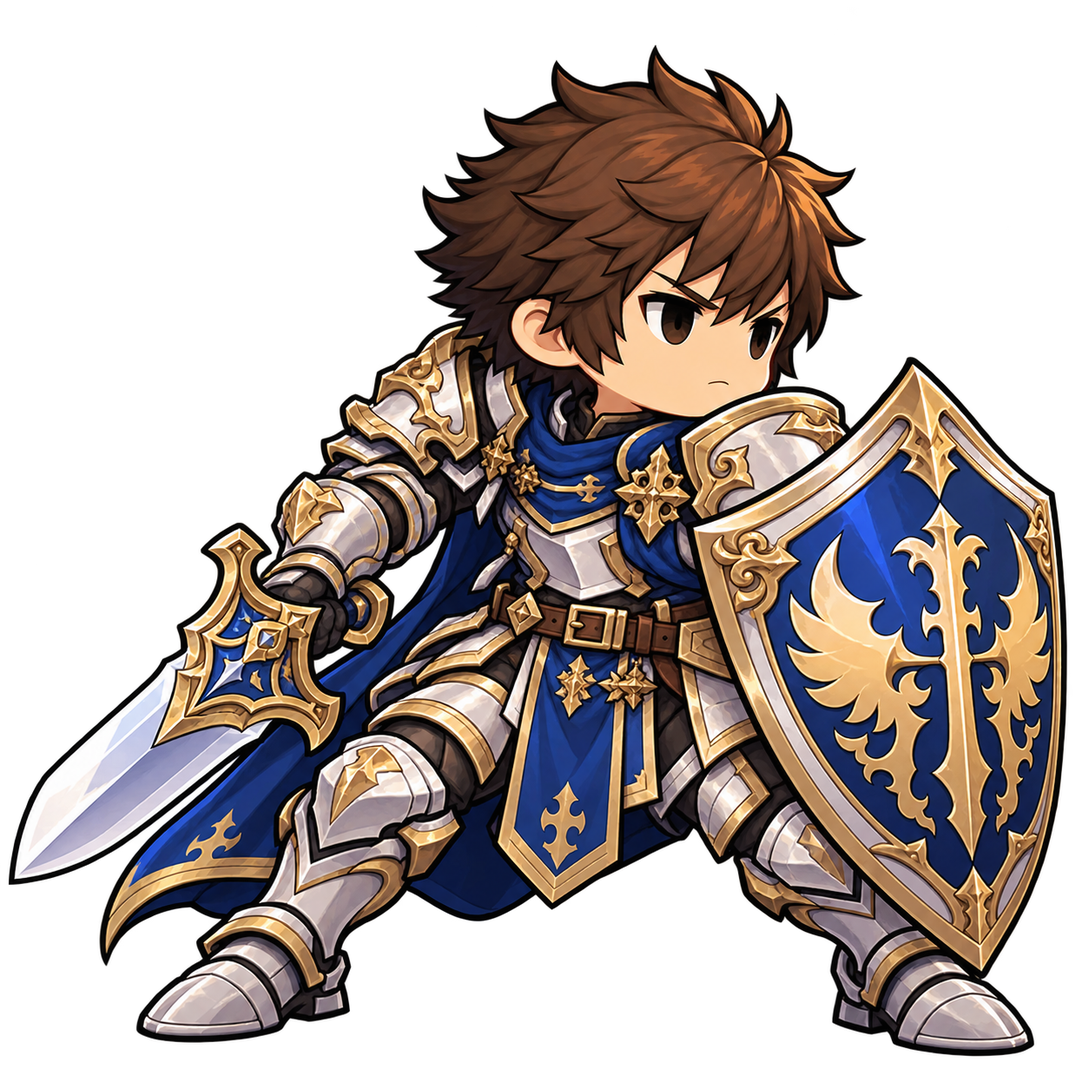
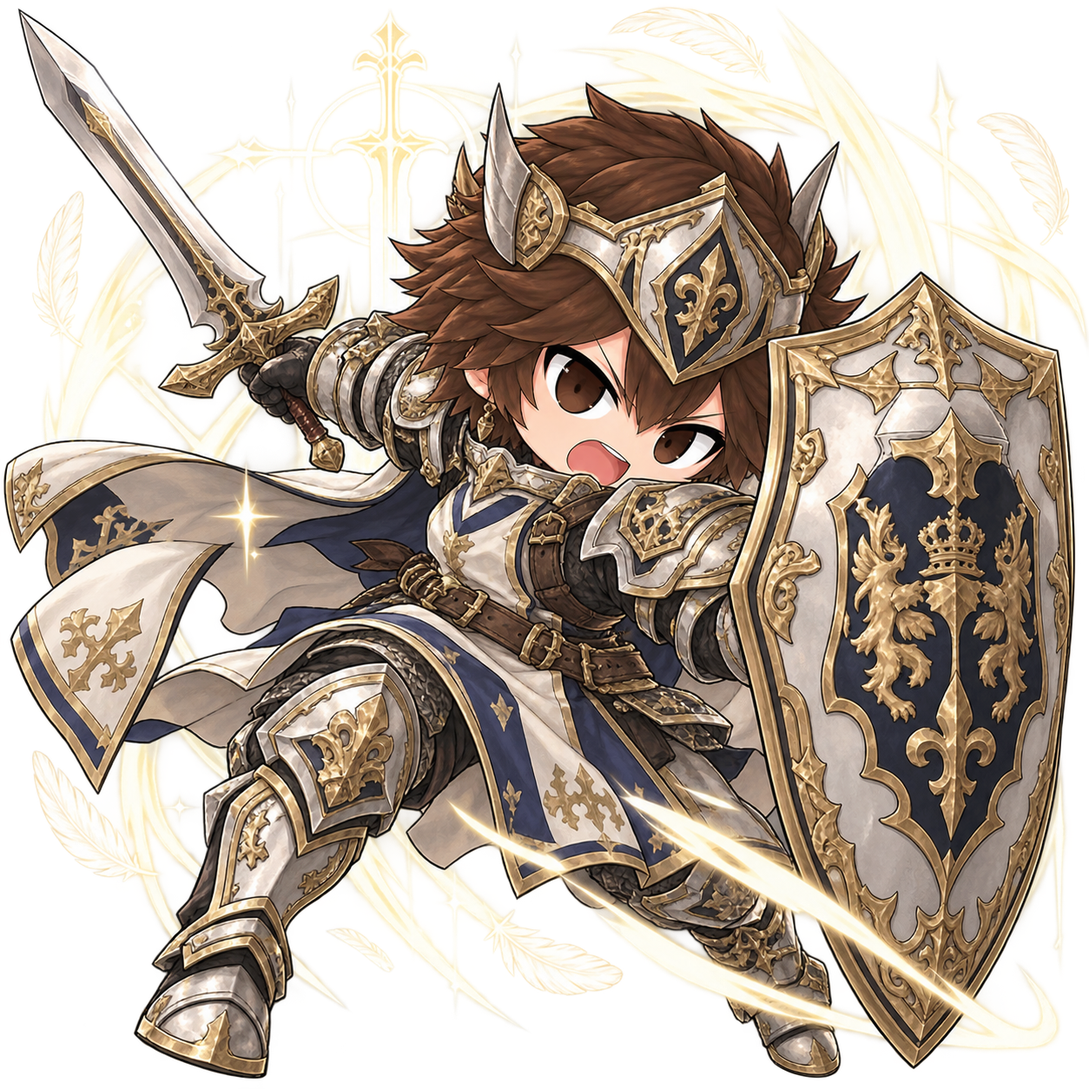
Job art: PLD v2

diff --git a/jobs.html b/jobs.html
@@ -1,4 +1,4 @@
 <!DOCTYPE html><html lang="en"><head><meta charset="utf-8"><meta name="viewport" content="width=device-width,initial-scale=1"><title>Jobs — EmberXI Wiki</title><link rel="stylesheet" href="style.css?v=1789040350"></head><body>
 <div id="side"><div id="logo"><a href="index.html"><div class="logo-title">EMBER XI<br>WIKI</div><div class="logo-sub">A Family Resource for Vana'diel</div></a></div><div class="portal"><h3>Main</h3><ul><li><a href="index.html">Main Page</a></li><li><a href="new-players.html">New Players</a></li><li><a href="rules.html">Server Rules</a></li><li><a href="xp-guide.html">EXP Guide</a></li><li><a href="jobs.html">Jobs</a></li><li><a href="trusts.html">Trusts</a></li><li><a href="avatars.html">Avatars</a></li><li><a href="eco-warrior.html">Eco-Warrior</a></li><li><a href="missions.html">Missions</a></li><li><a href="nms.html">NMs</a></li><li><a href="sky.html">Sky</a></li><li><a href="sea.html">Sea</a></li><li><a href="hnm.html">HNM</a></li></ul></div><div class="portal"><h3>EmberXI Content</h3><ul><li><a href="limit-break.html">Limit Break</a></li><li><a href="fountain.html">The Fountain</a></li><li><a href="ember-trials.html">Ember Trials</a></li><li><a href="ambuscade.html">Ambuscade</a></li><li><a href="nine-teeth.html">Nine Teeth</a></li><li><a href="henge.html">The Henge</a></li><li><a href="forge.html">Brandt & Teodor</a></li><li><a href="shami.html">Shami & Orbs</a></li><li><a href="spark-store.html">Spark Store</a></li></ul></div><div class="portal"><h3>Coming Soon</h3><ul><li><span class="soon">CoP</span></li><li><span class="soon">ToAU</span></li><li><span class="soon">Quests</span></li></ul></div><div class="portal"><h3>Tools</h3><ul><li><a href="https://emberxi.wordpress.com">News Site</a></li></ul></div></div>
 <div id="main"><div id="top"><div class="tabs-l"><a class="on" href="#">Jobs</a><a href="#">Discussion</a></div><div class="tabs-r"><a class="on" href="#">Read</a><a href="#">History</a><form class="search" onsubmit="return false"><input placeholder="Search EmberXI Wiki"></form></div></div>
-<div id="content"><h1 class="firstHeading">Jobs</h1><div class="article"><p>Your <b>Main Job</b> is the job that gains experience. A <b>Support Job</b> (sub) is a second job at half your main level; it gives you its abilities, traits and spells up to that level.</p><p>The "Standard Jobs" below are available to every new character. The "Advanced Jobs" are unlocked by completing a quest after level 30.</p><h2>Standard Jobs</h2><p>There are six standard jobs available to all starting players.</p><div class="jobgrid2"><div class="jobrow"><a href="job-war.html" class="jobpic"><img src="img/job-war.png?v=1789072090" alt="Warrior"></a><div><h3 id="war"><a href="job-war.html">Warrior</a></h3><p>Masters of weapons. Warriors stand in front and protect the party. The easiest first job, and the best support job for melee.</p></div></div><div class="jobrow"><a href="job-mnk.html" class="jobpic"><img src="img/job-mnk.png?v=1789040350" alt="Monk"></a><div><h3 id="mnk"><a href="job-mnk.html">Monk</a></h3><p>Fighters who use their fists. Fast punches, high HP and the best Hand-to-Hand skill. Very good solo from level 1.</p></div></div><div class="jobrow"><a href="job-thf.html" class="jobpic"><img src="img/job-thf.png?v=1789040350" alt="Thief"></a><div><h3 id="thf"><a href="job-thf.html">Thief</a></h3><p>Sneak Attack, Trick Attack and Treasure Hunter for more drops. Works best with a Trust tank in front.</p></div></div><div class="jobrow"><a href="job-whm.html" class="jobpic"><img src="img/job-whm.png?v=1789071943" alt="White Mage"></a><div><h3 id="whm"><a href="job-whm.html">White Mage</a></h3><p>The main healer: Cure, Regen, Erase and Raise. With Trusts on EmberXI a White Mage can play solo too.</p></div></div><div class="jobrow"><a href="job-blm.html" class="jobpic"><img src="img/job-blm.png?v=1789072276" alt="Black Mage"></a><div><h3 id="blm"><a href="job-blm.html">Black Mage</a></h3><p>The highest magic damage in the game: elemental nukes, Sleep, Warp and Escape. Magic Burst is +35 on EmberXI.</p></div></div><div class="jobrow"><a href="job-rdm.html" class="jobpic"><img src="img/job-rdm.png?v=1789072408" alt="Red Mage"></a><div><h3 id="rdm"><a href="job-rdm.html">Red Mage</a></h3><p>A fighter-mage: sword plus white and black magic, Refresh, Haste and Dispel. The best solo job of the era.</p></div></div></div><h2>Advanced Jobs</h2><p>By completing certain quests after reaching level 30, the door to many other jobs opens.</p><div class="jobgrid2"><div class="jobrow"><a href="job-pld.html" class="jobpic"><img src="img/job-pld.png?v=1789040350" alt="Paladin"></a><div><h3 id="pld"><a href="job-pld.html">Paladin</a></h3><p>The knight with white magic: the best tank of the era. Cure, Provoke, Sentinel and Invincible.</p></div></div><div class="jobrow"><a href="job-drk.html" class="jobpic"><img src="img/job-drk.png?v=1789040350" alt="Dark Knight"></a><div><h3 id="drk"><a href="job-drk.html">Dark Knight</a></h3><p>High damage with Scythe and Great Sword, plus black magic, Absorb spells and Stun. Uses its own HP for power.</p></div></div><div class="jobrow"><a href="job-bst.html" class="jobpic"><img src="img/job-bst.png?v=1789040350" alt="Beastmaster"></a><div><h3 id="bst"><a href="job-bst.html">Beastmaster</a></h3><p>Charms monsters and fights beside them, or calls Jug Pets. The best solo job even without Trusts.</p></div></div><div class="jobrow"><a href="job-brd.html" class="jobpic"><img src="img/job-brd.png?v=1789071522" alt="Bard"></a><div><h3 id="brd"><a href="job-brd.html">Bard</a></h3><p>Songs that speed up the party, restore MP and put enemies to sleep. The backbone of every era party.</p></div></div><div class="jobrow"><a href="job-rng.html" class="jobpic"><img src="img/job-rng.png?v=1789050095" alt="Ranger"></a><div><h3 id="rng"><a href="job-rng.html">Ranger</a></h3><p>Ranged damage with Bow and Gun, Barrage and Sharpshot. Needs arrows or bullets from the Auction House.</p></div></div><div class="jobrow"><a href="job-sam.html" class="jobpic"><img src="img/job-sam.png?v=1789050095" alt="Samurai"></a><div><h3 id="sam"><a href="job-sam.html">Samurai</a></h3><p>Master of Weapon Skills: fast TP with Meditate and Hasso, and Third Eye to dodge. The king of skillchains.</p></div></div><div class="jobrow"><a href="job-nin.html" class="jobpic"><img src="img/job-nin.png?v=1789050095" alt="Ninja"></a><div><h3 id="nin"><a href="job-nin.html">Ninja</a></h3><p>Utsusemi shadows absorb hits; Ninjutsu gives elemental damage and debuffs. The best evasion tank of the era.</p></div></div><div class="jobrow"><a href="job-drg.html" class="jobpic"><img src="img/job-drg.png?v=1789055767" alt="Dragoon"></a><div><h3 id="drg"><a href="job-drg.html">Dragoon</a></h3><p>Lance and Wyvern. Jump, High Jump and Super Jump for damage and enmity control. The Wyvern heals and fights with you.</p></div></div><div class="jobrow"><a href="job-smn.html" class="jobpic"><img src="img/job-smn.png?v=1789065532" alt="Summoner"></a><div><h3 id="smn"><a href="job-smn.html">Summoner</a></h3><p>Makes pacts with Avatars: Carbuncle, then the six, then Fenrir. The avatar fights for you with Blood Pacts. Support, damage and healing.</p></div></div><div class="jobrow"><a href="job-blu.html" class="jobpic"><img src="img/job-blu.png?v=1789066041" alt="Blue Mage"></a><div><h3 id="blu"><a href="job-blu.html">Blue Mage</a></h3><p>Learns monster spells (Blue Magic) by killing monsters after they use the move. Sword plus a flexible spell set.</p></div></div><div class="jobrow"><a href="job-cor.html" class="jobpic"><img src="img/job-cor.png?v=1789066875" alt="Corsair"></a><div><h3 id="cor"><a href="job-cor.html">Corsair</a></h3><p>A pirate with a gun and Phantom Rolls: luck-based buffs for the party and Hexagun damage.</p></div></div><div class="jobrow"><a href="job-pup.html" class="jobpic"><img src="img/job-pup.png?v=1789070510" alt="Puppetmaster"></a><div><h3 id="pup"><a href="job-pup.html">Puppetmaster</a></h3><p>Controls an Automaton that can be a tank, healer or mage depending on its Attachments.</p></div></div><div class="jobrow"><a href="job-dnc.html" class="jobpic"><img src="img/job-dnc.png?v=1789070942" alt="Dancer"></a><div><h3 id="dnc"><a href="job-dnc.html">Dancer</a></h3><p>Fights with daggers and turns TP into cures, buffs and debuffs with Waltzes, Sambas and Steps. Heals itself, so it is very good solo.</p></div></div><div class="jobrow"><a href="job-sch.html" class="jobpic"><img src="img/job-sch.png?v=1789072325" alt="Scholar"></a><div><h3 id="sch"><a href="job-sch.html">Scholar</a></h3><p>A flexible mage with two stances: Light Arts (white magic) and Dark Arts (black magic), plus Stratagems for faster or cheaper spells.</p></div></div></div><h2>Jobs of Vana'diel by Era</h2><table class="wikitable" dir="ltr"><tr><th>Expansion</th><th></th><th>Jobs</th></tr><tr><td dir="auto">Final Fantasy XI (2002–2004)</td><td dir="auto">Standard Jobs</td><td dir="auto"><a href="job-war.html">Warrior</a> · <a href="job-mnk.html">Monk</a> · <a href="job-thf.html">Thief</a> · <a href="job-whm.html">White Mage</a> · <a href="job-blm.html">Black Mage</a> · <a href="job-rdm.html">Red Mage</a></td></tr><tr><td dir="auto"></td><td dir="auto">Advanced Jobs</td><td dir="auto"><a href="job-pld.html">Paladin</a> · <a href="job-drk.html">Dark Knight</a> · <a href="job-bst.html">Beastmaster</a> · <a href="job-brd.html">Bard</a> · <a href="job-rng.html">Ranger</a></td></tr><tr><td dir="auto">Rise of the Zilart (2003–2004)</td><td dir="auto"></td><td dir="auto"><a href="job-smn.html">Summoner</a> · <a href="job-sam.html">Samurai</a> · <a href="job-nin.html">Ninja</a> · <a href="job-drg.html">Dragoon</a></td></tr><tr><td dir="auto">Chains of Promathia (2004)</td><td dir="auto"></td><td dir="auto">None</td></tr><tr><td dir="auto">Treasures of Aht Urhgan (2006)</td><td dir="auto"></td><td dir="auto"><a href="job-blu.html">Blue Mage</a> · <a href="job-cor.html">Corsair</a> · <a href="job-pup.html">Puppetmaster</a></td></tr><tr><td dir="auto">Wings of the Goddess (2007)</td><td dir="auto"></td><td dir="auto"><a href="job-dnc.html">Dancer</a> · <a href="job-sch.html">Scholar</a></td></tr></table></div><div id="foot">Last edited: 8 September 2026 · EmberXI Wiki</div></div></div></body></html>
+<div id="content"><h1 class="firstHeading">Jobs</h1><div class="article"><p>Your <b>Main Job</b> is the job that gains experience. A <b>Support Job</b> (sub) is a second job at half your main level; it gives you its abilities, traits and spells up to that level.</p><p>The "Standard Jobs" below are available to every new character. The "Advanced Jobs" are unlocked by completing a quest after level 30.</p><h2>Standard Jobs</h2><p>There are six standard jobs available to all starting players.</p><div class="jobgrid2"><div class="jobrow"><a href="job-war.html" class="jobpic"><img src="img/job-war.png?v=1789072090" alt="Warrior"></a><div><h3 id="war"><a href="job-war.html">Warrior</a></h3><p>Masters of weapons. Warriors stand in front and protect the party. The easiest first job, and the best support job for melee.</p></div></div><div class="jobrow"><a href="job-mnk.html" class="jobpic"><img src="img/job-mnk.png?v=1789040350" alt="Monk"></a><div><h3 id="mnk"><a href="job-mnk.html">Monk</a></h3><p>Fighters who use their fists. Fast punches, high HP and the best Hand-to-Hand skill. Very good solo from level 1.</p></div></div><div class="jobrow"><a href="job-thf.html" class="jobpic"><img src="img/job-thf.png?v=1789040350" alt="Thief"></a><div><h3 id="thf"><a href="job-thf.html">Thief</a></h3><p>Sneak Attack, Trick Attack and Treasure Hunter for more drops. Works best with a Trust tank in front.</p></div></div><div class="jobrow"><a href="job-whm.html" class="jobpic"><img src="img/job-whm.png?v=1789071943" alt="White Mage"></a><div><h3 id="whm"><a href="job-whm.html">White Mage</a></h3><p>The main healer: Cure, Regen, Erase and Raise. With Trusts on EmberXI a White Mage can play solo too.</p></div></div><div class="jobrow"><a href="job-blm.html" class="jobpic"><img src="img/job-blm.png?v=1789072276" alt="Black Mage"></a><div><h3 id="blm"><a href="job-blm.html">Black Mage</a></h3><p>The highest magic damage in the game: elemental nukes, Sleep, Warp and Escape. Magic Burst is +35 on EmberXI.</p></div></div><div class="jobrow"><a href="job-rdm.html" class="jobpic"><img src="img/job-rdm.png?v=1789072408" alt="Red Mage"></a><div><h3 id="rdm"><a href="job-rdm.html">Red Mage</a></h3><p>A fighter-mage: sword plus white and black magic, Refresh, Haste and Dispel. The best solo job of the era.</p></div></div></div><h2>Advanced Jobs</h2><p>By completing certain quests after reaching level 30, the door to many other jobs opens.</p><div class="jobgrid2"><div class="jobrow"><a href="job-pld.html" class="jobpic"><img src="img/job-pld.png?v=1789073072" alt="Paladin"></a><div><h3 id="pld"><a href="job-pld.html">Paladin</a></h3><p>The knight with white magic: the best tank of the era. Cure, Provoke, Sentinel and Invincible.</p></div></div><div class="jobrow"><a href="job-drk.html" class="jobpic"><img src="img/job-drk.png?v=1789040350" alt="Dark Knight"></a><div><h3 id="drk"><a href="job-drk.html">Dark Knight</a></h3><p>High damage with Scythe and Great Sword, plus black magic, Absorb spells and Stun. Uses its own HP for power.</p></div></div><div class="jobrow"><a href="job-bst.html" class="jobpic"><img src="img/job-bst.png?v=1789040350" alt="Beastmaster"></a><div><h3 id="bst"><a href="job-bst.html">Beastmaster</a></h3><p>Charms monsters and fights beside them, or calls Jug Pets. The best solo job even without Trusts.</p></div></div><div class="jobrow"><a href="job-brd.html" class="jobpic"><img src="img/job-brd.png?v=1789071522" alt="Bard"></a><div><h3 id="brd"><a href="job-brd.html">Bard</a></h3><p>Songs that speed up the party, restore MP and put enemies to sleep. The backbone of every era party.</p></div></div><div class="jobrow"><a href="job-rng.html" class="jobpic"><img src="img/job-rng.png?v=1789050095" alt="Ranger"></a><div><h3 id="rng"><a href="job-rng.html">Ranger</a></h3><p>Ranged damage with Bow and Gun, Barrage and Sharpshot. Needs arrows or bullets from the Auction House.</p></div></div><div class="jobrow"><a href="job-sam.html" class="jobpic"><img src="img/job-sam.png?v=1789050095" alt="Samurai"></a><div><h3 id="sam"><a href="job-sam.html">Samurai</a></h3><p>Master of Weapon Skills: fast TP with Meditate and Hasso, and Third Eye to dodge. The king of skillchains.</p></div></div><div class="jobrow"><a href="job-nin.html" class="jobpic"><img src="img/job-nin.png?v=1789050095" alt="Ninja"></a><div><h3 id="nin"><a href="job-nin.html">Ninja</a></h3><p>Utsusemi shadows absorb hits; Ninjutsu gives elemental damage and debuffs. The best evasion tank of the era.</p></div></div><div class="jobrow"><a href="job-drg.html" class="jobpic"><img src="img/job-drg.png?v=1789055767" alt="Dragoon"></a><div><h3 id="drg"><a href="job-drg.html">Dragoon</a></h3><p>Lance and Wyvern. Jump, High Jump and Super Jump for damage and enmity control. The Wyvern heals and fights with you.</p></div></div><div class="jobrow"><a href="job-smn.html" class="jobpic"><img src="img/job-smn.png?v=1789065532" alt="Summoner"></a><div><h3 id="smn"><a href="job-smn.html">Summoner</a></h3><p>Makes pacts with Avatars: Carbuncle, then the six, then Fenrir. The avatar fights for you with Blood Pacts. Support, damage and healing.</p></div></div><div class="jobrow"><a href="job-blu.html" class="jobpic"><img src="img/job-blu.png?v=1789066041" alt="Blue Mage"></a><div><h3 id="blu"><a href="job-blu.html">Blue Mage</a></h3><p>Learns monster spells (Blue Magic) by killing monsters after they use the move. Sword plus a flexible spell set.</p></div></div><div class="jobrow"><a href="job-cor.html" class="jobpic"><img src="img/job-cor.png?v=1789066875" alt="Corsair"></a><div><h3 id="cor"><a href="job-cor.html">Corsair</a></h3><p>A pirate with a gun and Phantom Rolls: luck-based buffs for the party and Hexagun damage.</p></div></div><div class="jobrow"><a href="job-pup.html" class="jobpic"><img src="img/job-pup.png?v=1789070510" alt="Puppetmaster"></a><div><h3 id="pup"><a href="job-pup.html">Puppetmaster</a></h3><p>Controls an Automaton that can be a tank, healer or mage depending on its Attachments.</p></div></div><div class="jobrow"><a href="job-dnc.html" class="jobpic"><img src="img/job-dnc.png?v=1789070942" alt="Dancer"></a><div><h3 id="dnc"><a href="job-dnc.html">Dancer</a></h3><p>Fights with daggers and turns TP into cures, buffs and debuffs with Waltzes, Sambas and Steps. Heals itself, so it is very good solo.</p></div></div><div class="jobrow"><a href="job-sch.html" class="jobpic"><img src="img/job-sch.png?v=1789072325" alt="Scholar"></a><div><h3 id="sch"><a href="job-sch.html">Scholar</a></h3><p>A flexible mage with two stances: Light Arts (white magic) and Dark Arts (black magic), plus Stratagems for faster or cheaper spells.</p></div></div></div><h2>Jobs of Vana'diel by Era</h2><table class="wikitable" dir="ltr"><tr><th>Expansion</th><th></th><th>Jobs</th></tr><tr><td dir="auto">Final Fantasy XI (2002–2004)</td><td dir="auto">Standard Jobs</td><td dir="auto"><a href="job-war.html">Warrior</a> · <a href="job-mnk.html">Monk</a> · <a href="job-thf.html">Thief</a> · <a href="job-whm.html">White Mage</a> · <a href="job-blm.html">Black Mage</a> · <a href="job-rdm.html">Red Mage</a></td></tr><tr><td dir="auto"></td><td dir="auto">Advanced Jobs</td><td dir="auto"><a href="job-pld.html">Paladin</a> · <a href="job-drk.html">Dark Knight</a> · <a href="job-bst.html">Beastmaster</a> · <a href="job-brd.html">Bard</a> · <a href="job-rng.html">Ranger</a></td></tr><tr><td dir="auto">Rise of the Zilart (2003–2004)</td><td dir="auto"></td><td dir="auto"><a href="job-smn.html">Summoner</a> · <a href="job-sam.html">Samurai</a> · <a href="job-nin.html">Ninja</a> · <a href="job-drg.html">Dragoon</a></td></tr><tr><td dir="auto">Chains of Promathia (2004)</td><td dir="auto"></td><td dir="auto">None</td></tr><tr><td dir="auto">Treasures of Aht Urhgan (2006)</td><td dir="auto"></td><td dir="auto"><a href="job-blu.html">Blue Mage</a> · <a href="job-cor.html">Corsair</a> · <a href="job-pup.html">Puppetmaster</a></td></tr><tr><td dir="auto">Wings of the Goddess (2007)</td><td dir="auto"></td><td dir="auto"><a href="job-dnc.html">Dancer</a> · <a href="job-sch.html">Scholar</a></td></tr></table></div><div id="foot">Last edited: 8 September 2026 · EmberXI Wiki</div></div></div></body></html>

diff --git a/job-pld.html b/job-pld.html
@@ -1,4 +1,4 @@
 <!DOCTYPE html><html lang="en"><head><meta charset="utf-8"><meta name="viewport" content="width=device-width,initial-scale=1"><title>Paladin — EmberXI Wiki</title><link rel="stylesheet" href="style.css?v=1789040350"></head><body>
 <div id="side"><div id="logo"><a href="index.html"><div class="logo-title">EMBER XI<br>WIKI</div><div class="logo-sub">A Family Resource for Vana'diel</div></a></div><div class="portal"><h3>Main</h3><ul><li><a href="index.html">Main Page</a></li><li><a href="new-players.html">New Players</a></li><li><a href="rules.html">Server Rules</a></li><li><a href="xp-guide.html">EXP Guide</a></li><li><a href="jobs.html">Jobs</a></li><li><a href="trusts.html">Trusts</a></li><li><a href="avatars.html">Avatars</a></li><li><a href="eco-warrior.html">Eco-Warrior</a></li><li><a href="missions.html">Missions</a></li><li><a href="nms.html">NMs</a></li><li><a href="sky.html">Sky</a></li><li><a href="sea.html">Sea</a></li><li><a href="hnm.html">HNM</a></li></ul></div><div class="portal"><h3>EmberXI Content</h3><ul><li><a href="limit-break.html">Limit Break</a></li><li><a href="fountain.html">The Fountain</a></li><li><a href="ember-trials.html">Ember Trials</a></li><li><a href="ambuscade.html">Ambuscade</a></li><li><a href="nine-teeth.html">Nine Teeth</a></li><li><a href="henge.html">The Henge</a></li><li><a href="forge.html">Brandt & Teodor</a></li><li><a href="shami.html">Shami & Orbs</a></li><li><a href="spark-store.html">Spark Store</a></li></ul></div><div class="portal"><h3>Coming Soon</h3><ul><li><span class="soon">CoP</span></li><li><span class="soon">ToAU</span></li><li><span class="soon">Quests</span></li></ul></div><div class="portal"><h3>Tools</h3><ul><li><a href="https://emberxi.wordpress.com">News Site</a></li></ul></div></div>
 <div id="main"><div id="top"><div class="tabs-l"><a class="on" href="#">Paladin</a><a href="#">Discussion</a></div><div class="tabs-r"><a class="on" href="#">Read</a><a href="#">History</a><form class="search" onsubmit="return false"><input placeholder="Search EmberXI Wiki"></form></div></div>
-<div id="content"><h1 class="firstHeading">Paladin</h1><div class="article"><div class="lead"><table class="infobox"><tr><th colspan="2" class="ib-title">Paladin</th></tr><tr><td class="ib-label">Abbreviation</td><td>PLD</td></tr><tr><td class="ib-label">Expansion</td><td>Final Fantasy XI</td></tr><tr><td class="ib-label">How to Unlock</td><td>A Squire's Test II</td></tr><tr><td class="ib-label">Page Contents</td><td><a href="#ab">Abilities</a> · <a href="#tr">Traits</a> · <a href="#sp">Spells</a> · <a href="#sk">Skills</a></td></tr></table><div><img class="jobart" src="img/job-pld.png?v=1789040350" alt="Paladin"><p>The knight with white magic: the best tank of the era. Cure, Provoke, Sentinel and Invincible.</p></div></div><h2 id="ab">Job Abilities</h2><table class="wikitable" dir="ltr"><tr><th>Level</th><th>Name</th></tr><tr><td dir="auto">1</td><td dir="auto">Invincible</td></tr><tr><td dir="auto">5</td><td dir="auto">Holy Circle</td></tr><tr><td dir="auto">15</td><td dir="auto">Shield Bash</td></tr><tr><td dir="auto">30</td><td dir="auto">Sentinel</td></tr><tr><td dir="auto">35</td><td dir="auto">Cover</td></tr><tr><td dir="auto">45</td><td dir="auto">Chivalry</td></tr><tr><td dir="auto">62</td><td dir="auto">Rampart</td></tr><tr><td dir="auto">70</td><td dir="auto">Majesty</td></tr><tr><td dir="auto">75</td><td dir="auto">Fealty</td></tr></table><h2 id="tr">Job Traits</h2><table class="wikitable" dir="ltr"><tr><th>Level</th><th>Trait</th></tr><tr><td dir="auto">5</td><td dir="auto">Undead Killer</td></tr><tr><td dir="auto">10</td><td dir="auto">Defense Bonus</td></tr><tr><td dir="auto">20</td><td dir="auto">Resist Sleep</td></tr><tr><td dir="auto">25</td><td dir="auto">Auto Refresh</td></tr><tr><td dir="auto">25</td><td dir="auto">Shield Mastery</td></tr><tr><td dir="auto">30</td><td dir="auto">Defense Bonus II</td></tr><tr><td dir="auto">40</td><td dir="auto">Resist Sleep II</td></tr><tr><td dir="auto">45</td><td dir="auto">Max HP Boost</td></tr><tr><td dir="auto">50</td><td dir="auto">Defense Bonus III</td></tr><tr><td dir="auto">50</td><td dir="auto">Shield Mastery II</td></tr><tr><td dir="auto">60</td><td dir="auto">Resist Sleep III</td></tr><tr><td dir="auto">70</td><td dir="auto">Defense Bonus IV</td></tr><tr><td dir="auto">70</td><td dir="auto">Shield Barrier</td></tr><tr><td dir="auto">75</td><td dir="auto">Guardian</td></tr><tr><td dir="auto">75</td><td dir="auto">Iron Will</td></tr><tr><td dir="auto">75</td><td dir="auto">Resist Sleep IV</td></tr><tr><td dir="auto">75</td><td dir="auto">Shield Mastery III</td></tr></table><h2 id="sp">Spells</h2><table class="wikitable" dir="ltr"><tr><th>Level</th><th>Name</th><th>MP</th></tr><tr><td dir="auto">5</td><td dir="auto">Cure</td><td dir="auto">33</td></tr><tr><td dir="auto">7</td><td dir="auto">Banish</td><td dir="auto">32</td></tr><tr><td dir="auto">10</td><td dir="auto">Protect</td><td dir="auto">34</td></tr><tr><td dir="auto">17</td><td dir="auto">Cure II</td><td dir="auto">33</td></tr><tr><td dir="auto">20</td><td dir="auto">Shell</td><td dir="auto">34</td></tr><tr><td dir="auto">30</td><td dir="auto">Banishga</td><td dir="auto">32</td></tr><tr><td dir="auto">30</td><td dir="auto">Cure IIi</td><td dir="auto">33</td></tr><tr><td dir="auto">30</td><td dir="auto">Protect II</td><td dir="auto">34</td></tr><tr><td dir="auto">34</td><td dir="auto">Banish II</td><td dir="auto">32</td></tr><tr><td dir="auto">37</td><td dir="auto">Flash</td><td dir="auto">32</td></tr><tr><td dir="auto">40</td><td dir="auto">Shell II</td><td dir="auto">34</td></tr><tr><td dir="auto">50</td><td dir="auto">Protect IIi</td><td dir="auto">34</td></tr><tr><td dir="auto">50</td><td dir="auto">Raise</td><td dir="auto">33</td></tr><tr><td dir="auto">55</td><td dir="auto">Cure IV</td><td dir="auto">33</td></tr><tr><td dir="auto">55</td><td dir="auto">Holy</td><td dir="auto">32</td></tr><tr><td dir="auto">60</td><td dir="auto">Shell IIi</td><td dir="auto">34</td></tr><tr><td dir="auto">61</td><td dir="auto">Reprisal</td><td dir="auto">34</td></tr><tr><td dir="auto">70</td><td dir="auto">Protect IV</td><td dir="auto">34</td></tr></table><h2 id="sk">Skills</h2><table class="wikitable" dir="ltr"><tr><th>Skill</th><th>Rank</th><th>Lv 37</th><th>Lv 75</th></tr><tr><td dir="auto">Dagger</td><td dir="auto">C-</td><td dir="auto">105</td><td dir="auto">220</td></tr><tr><td dir="auto">Sword</td><td dir="auto">A+</td><td dir="auto">114</td><td dir="auto">276</td></tr><tr><td dir="auto">great sword</td><td dir="auto">B</td><td dir="auto">109</td><td dir="auto">250</td></tr><tr><td dir="auto">Polearm</td><td dir="auto">E</td><td dir="auto">94</td><td dir="auto">200</td></tr><tr><td dir="auto">Club</td><td dir="auto">A-</td><td dir="auto">114</td><td dir="auto">269</td></tr><tr><td dir="auto">Staff</td><td dir="auto">A-</td><td dir="auto">114</td><td dir="auto">269</td></tr><tr><td dir="auto">Evasion</td><td dir="auto">C</td><td dir="auto">105</td><td dir="auto">225</td></tr><tr><td dir="auto">Shield</td><td dir="auto">A+</td><td dir="auto">114</td><td dir="auto">276</td></tr><tr><td dir="auto">parrying</td><td dir="auto">C</td><td dir="auto">105</td><td dir="auto">225</td></tr><tr><td dir="auto">Divine Magic</td><td dir="auto">B+</td><td dir="auto">109</td><td dir="auto">256</td></tr><tr><td dir="auto">Healing Magic</td><td dir="auto">C</td><td dir="auto">105</td><td dir="auto">225</td></tr><tr><td dir="auto">Enhancing Magic</td><td dir="auto">D</td><td dir="auto">101</td><td dir="auto">210</td></tr></table><h2>Artifact Armor</h2><p class="soon">Coming soon.</p></div><div id="foot">Last edited: 8 September 2026 · EmberXI Wiki</div></div></div></body></html>
+<div id="content"><h1 class="firstHeading">Paladin</h1><div class="article"><div class="lead"><table class="infobox"><tr><th colspan="2" class="ib-title">Paladin</th></tr><tr><td class="ib-label">Abbreviation</td><td>PLD</td></tr><tr><td class="ib-label">Expansion</td><td>Final Fantasy XI</td></tr><tr><td class="ib-label">How to Unlock</td><td>A Squire's Test II</td></tr><tr><td class="ib-label">Page Contents</td><td><a href="#ab">Abilities</a> · <a href="#tr">Traits</a> · <a href="#sp">Spells</a> · <a href="#sk">Skills</a></td></tr></table><div><img class="jobart" src="img/job-pld.png?v=1789073072" alt="Paladin"><p>The knight with white magic: the best tank of the era. Cure, Provoke, Sentinel and Invincible.</p></div></div><h2 id="ab">Job Abilities</h2><table class="wikitable" dir="ltr"><tr><th>Level</th><th>Name</th></tr><tr><td dir="auto">1</td><td dir="auto">Invincible</td></tr><tr><td dir="auto">5</td><td dir="auto">Holy Circle</td></tr><tr><td dir="auto">15</td><td dir="auto">Shield Bash</td></tr><tr><td dir="auto">30</td><td dir="auto">Sentinel</td></tr><tr><td dir="auto">35</td><td dir="auto">Cover</td></tr><tr><td dir="auto">45</td><td dir="auto">Chivalry</td></tr><tr><td dir="auto">62</td><td dir="auto">Rampart</td></tr><tr><td dir="auto">70</td><td dir="auto">Majesty</td></tr><tr><td dir="auto">75</td><td dir="auto">Fealty</td></tr></table><h2 id="tr">Job Traits</h2><table class="wikitable" dir="ltr"><tr><th>Level</th><th>Trait</th></tr><tr><td dir="auto">5</td><td dir="auto">Undead Killer</td></tr><tr><td dir="auto">10</td><td dir="auto">Defense Bonus</td></tr><tr><td dir="auto">20</td><td dir="auto">Resist Sleep</td></tr><tr><td dir="auto">25</td><td dir="auto">Auto Refresh</td></tr><tr><td dir="auto">25</td><td dir="auto">Shield Mastery</td></tr><tr><td dir="auto">30</td><td dir="auto">Defense Bonus II</td></tr><tr><td dir="auto">40</td><td dir="auto">Resist Sleep II</td></tr><tr><td dir="auto">45</td><td dir="auto">Max HP Boost</td></tr><tr><td dir="auto">50</td><td dir="auto">Defense Bonus III</td></tr><tr><td dir="auto">50</td><td dir="auto">Shield Mastery II</td></tr><tr><td dir="auto">60</td><td dir="auto">Resist Sleep III</td></tr><tr><td dir="auto">70</td><td dir="auto">Defense Bonus IV</td></tr><tr><td dir="auto">70</td><td dir="auto">Shield Barrier</td></tr><tr><td dir="auto">75</td><td dir="auto">Guardian</td></tr><tr><td dir="auto">75</td><td dir="auto">Iron Will</td></tr><tr><td dir="auto">75</td><td dir="auto">Resist Sleep IV</td></tr><tr><td dir="auto">75</td><td dir="auto">Shield Mastery III</td></tr></table><h2 id="sp">Spells</h2><table class="wikitable" dir="ltr"><tr><th>Level</th><th>Name</th><th>MP</th></tr><tr><td dir="auto">5</td><td dir="auto">Cure</td><td dir="auto">33</td></tr><tr><td dir="auto">7</td><td dir="auto">Banish</td><td dir="auto">32</td></tr><tr><td dir="auto">10</td><td dir="auto">Protect</td><td dir="auto">34</td></tr><tr><td dir="auto">17</td><td dir="auto">Cure II</td><td dir="auto">33</td></tr><tr><td dir="auto">20</td><td dir="auto">Shell</td><td dir="auto">34</td></tr><tr><td dir="auto">30</td><td dir="auto">Banishga</td><td dir="auto">32</td></tr><tr><td dir="auto">30</td><td dir="auto">Cure IIi</td><td dir="auto">33</td></tr><tr><td dir="auto">30</td><td dir="auto">Protect II</td><td dir="auto">34</td></tr><tr><td dir="auto">34</td><td dir="auto">Banish II</td><td dir="auto">32</td></tr><tr><td dir="auto">37</td><td dir="auto">Flash</td><td dir="auto">32</td></tr><tr><td dir="auto">40</td><td dir="auto">Shell II</td><td dir="auto">34</td></tr><tr><td dir="auto">50</td><td dir="auto">Protect IIi</td><td dir="auto">34</td></tr><tr><td dir="auto">50</td><td dir="auto">Raise</td><td dir="auto">33</td></tr><tr><td dir="auto">55</td><td dir="auto">Cure IV</td><td dir="auto">33</td></tr><tr><td dir="auto">55</td><td dir="auto">Holy</td><td dir="auto">32</td></tr><tr><td dir="auto">60</td><td dir="auto">Shell IIi</td><td dir="auto">34</td></tr><tr><td dir="auto">61</td><td dir="auto">Reprisal</td><td dir="auto">34</td></tr><tr><td dir="auto">70</td><td dir="auto">Protect IV</td><td dir="auto">34</td></tr></table><h2 id="sk">Skills</h2><table class="wikitable" dir="ltr"><tr><th>Skill</th><th>Rank</th><th>Lv 37</th><th>Lv 75</th></tr><tr><td dir="auto">Dagger</td><td dir="auto">C-</td><td dir="auto">105</td><td dir="auto">220</td></tr><tr><td dir="auto">Sword</td><td dir="auto">A+</td><td dir="auto">114</td><td dir="auto">276</td></tr><tr><td dir="auto">great sword</td><td dir="auto">B</td><td dir="auto">109</td><td dir="auto">250</td></tr><tr><td dir="auto">Polearm</td><td dir="auto">E</td><td dir="auto">94</td><td dir="auto">200</td></tr><tr><td dir="auto">Club</td><td dir="auto">A-</td><td dir="auto">114</td><td dir="auto">269</td></tr><tr><td dir="auto">Staff</td><td dir="auto">A-</td><td dir="auto">114</td><td dir="auto">269</td></tr><tr><td dir="auto">Evasion</td><td dir="auto">C</td><td dir="auto">105</td><td dir="auto">225</td></tr><tr><td dir="auto">Shield</td><td dir="auto">A+</td><td dir="auto">114</td><td dir="auto">276</td></tr><tr><td dir="auto">parrying</td><td dir="auto">C</td><td dir="auto">105</td><td dir="auto">225</td></tr><tr><td dir="auto">Divine Magic</td><td dir="auto">B+</td><td dir="auto">109</td><td dir="auto">256</td></tr><tr><td dir="auto">Healing Magic</td><td dir="auto">C</td><td dir="auto">105</td><td dir="auto">225</td></tr><tr><td dir="auto">Enhancing Magic</td><td dir="auto">D</td><td dir="auto">101</td><td dir="auto">210</td></tr></table><h2>Artifact Armor</h2><p class="soon">Coming soon.</p></div><div id="foot">Last edited: 8 September 2026 · EmberXI Wiki</div></div></div></body></html>
